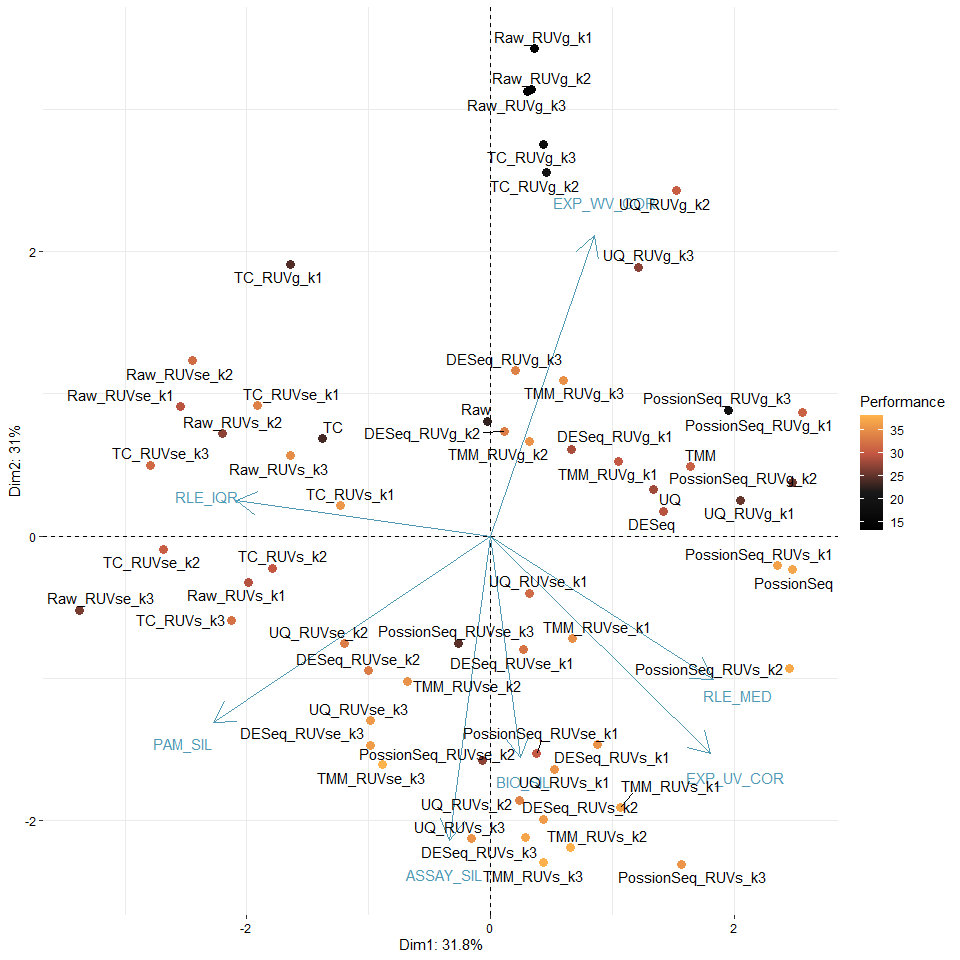
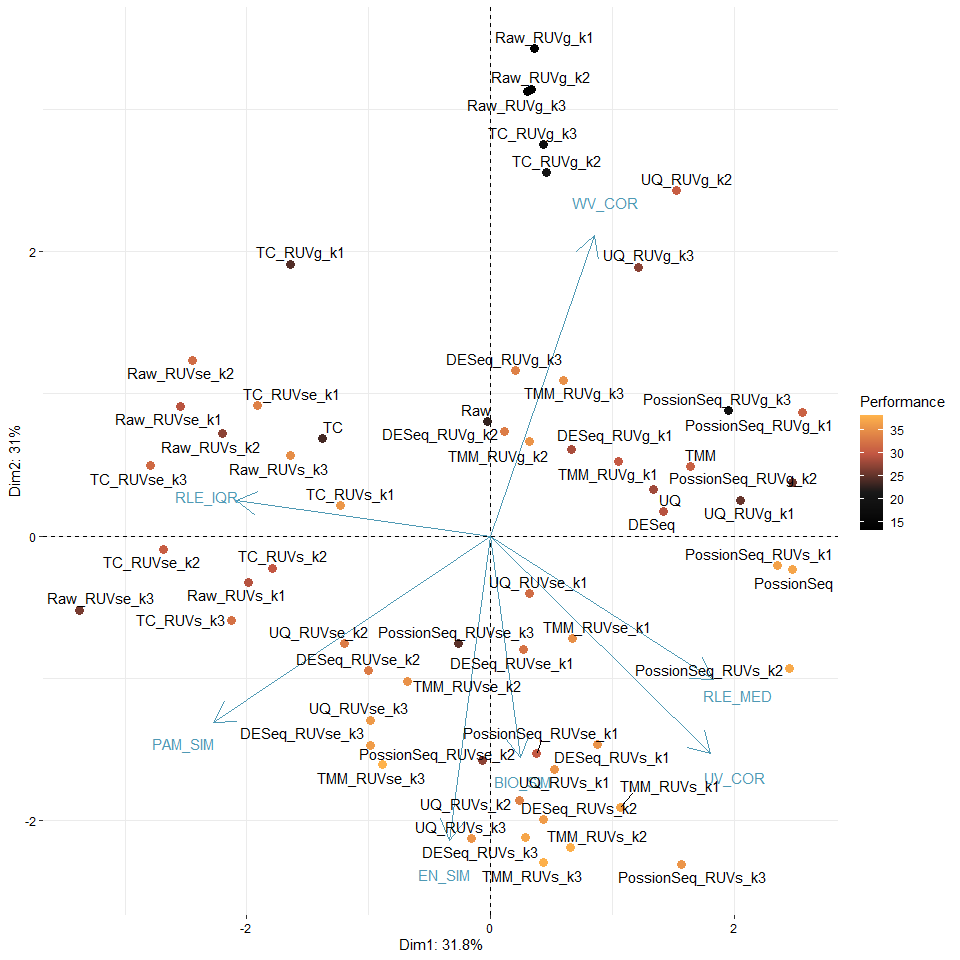
control ruv.k not exceed sample size; unify plot api; update README

diff --git a/README.md b/README.md
@@ -188,7 +188,8 @@ Normalization and assessment can be achieved by wrapper function `enONE`
 ``` r
 Enone <- enONE(Enone, 
                ruv.norm = TRUE, ruv.k = 3,
-               pam.krange = 2:6, pc.k = 3
+               eval.pam.k = 2:6, eval.pc.n = 3,
+               return.norm = FALSE,
                )
 #> Gene set selection for normalization and assessment...
 #> - The number of negative control genes for normalization: 1000 
@@ -200,15 +201,15 @@ Enone <- enONE(Enone,
 
 Selected gene sets are stored in `rowData`, including:
 
--   `NegControl`: Boolean value indicate whether this gene is a member
-    of the negative control gene sets for RUV, default the most 1000 not
-    enriched genes in spike_in are selected.
--   `NegEvaluation`: Boolean value indicate whether this gene is a
-    member of the negative evaluation gene set, default the most 500 not
-    variable genes in samples are selected.
--   `PosEvaluation`: Boolean value indicate whether this gene is a
-    member of the positive evaluation gene set, default the most 500
-    enriched genes in samples are selected.
+- `NegControl`: Boolean value indicate whether this gene is a member of
+  the negative control gene sets for RUV, default the most 1000 not
+  enriched genes in spike_in are selected.
+- `NegEvaluation`: Boolean value indicate whether this gene is a member
+  of the negative evaluation gene set, default the most 500 not variable
+  genes in samples are selected.
+- `PosEvaluation`: Boolean value indicate whether this gene is a member
+  of the positive evaluation gene set, default the most 500 enriched
+  genes in samples are selected.
 
 ``` r
 rowData(Enone)
@@ -298,20 +299,20 @@ order).
 
 ``` r
 head(getMetrics(Enone))
-#>                        BIO_SIL ASSAY_SIL BATCH_SIL   PAM_SIL      RLE_MED
+#>                        BIO_SIM    EN_SIM BATCH_SIM   PAM_SIM      RLE_MED
 #> TMM_RUVse_k3       0.004010675 0.3672915         0 0.7215727 0.0012331000
 #> TMM_RUVs_k3        0.264969797 0.3526664         0 0.6917263 0.0013922471
 #> TMM_RUVs_k2        0.273545725 0.3529028         0 0.6912465 0.0014106631
 #> PossionSeq_RUVs_k2 0.162922204 0.3557378         0 0.6791057 0.0001844717
 #> TMM_RUVs_k1        0.323222896 0.3572111         0 0.6832383 0.0017360384
 #> DESeq_RUVs_k3      0.329558547 0.3506919         0 0.6919255 0.0022146643
-#>                       RLE_IQR EXP_WV_COR EXP_UV_COR
-#> TMM_RUVse_k3       0.02174805  0.8464516  0.3908795
-#> TMM_RUVs_k3        0.02437620  0.6853092  0.1459999
-#> TMM_RUVs_k2        0.02708899  0.7287250  0.1508830
-#> PossionSeq_RUVs_k2 0.07336386  0.9182946  0.2784424
-#> TMM_RUVs_k1        0.03318628  0.8619031  0.2170877
-#> DESeq_RUVs_k3      0.02595740  0.7217122  0.1135383
+#>                       RLE_IQR    WV_COR    UV_COR
+#> TMM_RUVse_k3       0.02174805 0.8464516 0.3908795
+#> TMM_RUVs_k3        0.02437620 0.6853092 0.1459999
+#> TMM_RUVs_k2        0.02708899 0.7287250 0.1508830
+#> PossionSeq_RUVs_k2 0.07336386 0.9182946 0.2784424
+#> TMM_RUVs_k1        0.03318628 0.8619031 0.2170877
+#> DESeq_RUVs_k3      0.02595740 0.7217122 0.1135383
 ```
 
 Check the performance of normalizations (ranked by scores in decreasing
@@ -319,20 +320,20 @@ order). Higher score means better performance.
 
 ``` r
 head(getScore(Enone))
-#>                    BIO_SIL ASSAY_SIL BATCH_SIL PAM_SIL RLE_MED RLE_IQR
-#> TMM_RUVse_k3            29        54         1      48      47      45
-#> TMM_RUVs_k3             50        36         1      36      46      37
-#> TMM_RUVs_k2             52        37         1      35      45      31
-#> PossionSeq_RUVs_k2      43        43         1      17      59       7
-#> TMM_RUVs_k1             55        47         1      25      39      22
-#> DESeq_RUVs_k3           56        32         1      37      34      35
-#>                    EXP_WV_COR EXP_UV_COR    SCORE
-#> TMM_RUVse_k3               15         29 38.14286
-#> TMM_RUVs_k3                 3         58 38.00000
-#> TMM_RUVs_k2                 8         57 37.85714
-#> PossionSeq_RUVs_k2         43         50 37.42857
-#> TMM_RUVs_k1                19         53 37.14286
-#> DESeq_RUVs_k3               6         60 37.14286
+#>                    BIO_SIM EN_SIM BATCH_SIM PAM_SIM RLE_MED RLE_IQR WV_COR
+#> TMM_RUVse_k3            29     54         1      48      47      45     15
+#> TMM_RUVs_k3             50     36         1      36      46      37      3
+#> TMM_RUVs_k2             52     37         1      35      45      31      8
+#> PossionSeq_RUVs_k2      43     43         1      17      59       7     43
+#> TMM_RUVs_k1             55     47         1      25      39      22     19
+#> DESeq_RUVs_k3           56     32         1      37      34      35      6
+#>                    UV_COR    SCORE
+#> TMM_RUVse_k3           29 38.14286
+#> TMM_RUVs_k3            58 38.00000
+#> TMM_RUVs_k2            57 37.85714
+#> PossionSeq_RUVs_k2     50 37.42857
+#> TMM_RUVs_k1            53 37.14286
+#> DESeq_RUVs_k3          60 37.14286
 ```
 
 #### PCA biplot
@@ -342,7 +343,7 @@ If batch not provided, preclude `BATCH_SIL` column and `SCORE` column.
 ``` r
 enScore <- getScore(Enone)
 pca.eval <- prcomp(enScore[,-c(3, 9)], scale = TRUE)
-ggPCA_Biplot(pca.eval, score = enScore$SCORE)
+PCA_Biplot(pca.eval, score = enScore$SCORE)
 ```
 
 <img src="man/figures/README-unnamed-chunk-15-1.png" width="100%" />
@@ -351,7 +352,7 @@ You can turn on the interactive mode to further explore the performance
 of each method.
 
 ``` r
-ggPCA_Biplot(pca.eval, score = Enone@enone_score$SCORE, interactive = TRUE)
+PCA_Biplot(pca.eval, score = Enone@enone_score$SCORE, interactive = TRUE)
 ```
 
 ### Use suitable normalization
@@ -373,10 +374,10 @@ normalization.
 
 ``` r
 samples_name <- paste(Enone$condition, Enone$replicate, sep='.')
-p1 <- ggPCA(log1p(Counts(Enone, slot='sample', 'Raw')), 
+p1 <- PCAplot(log1p(Counts(Enone, slot='sample', 'Raw')), 
             color = Enone$condition,
             label = samples_name, vst.norm = FALSE) + ggtitle('Before normalization')
-p2 <- ggPCA(log1p(norm.data), 
+p2 <- PCAplot(log1p(norm.data), 
             color = Enone$condition,
             label = samples_name, vst.norm = FALSE) + ggtitle('After normalization')
 p1 + p2
@@ -410,16 +411,16 @@ Each enrichment table is a `data.frame` with a list of genes as rows,
 and associated information as columns (GeneID, logFC, p-values, etc.).
 The following columns are present in the table:
 
--   `GeneID`: ID of genes.
--   `logFC`: log2 fold-change between enrichment and input samples.
-    Positive values indicate that the gene is more highly enriched in
-    the enrichment group.
--   `logCPM`: log2 CPM (counts per million) of the average expression of
-    all samples.
--   `LR`: Likelihood ratio of the likelihood ratio test.
--   `PValue`: p-value from the likelihood ratio test.
--   `FDR`: False discovery rate of the p-value, default “BH” method is
-    applied.
+- `GeneID`: ID of genes.
+- `logFC`: log2 fold-change between enrichment and input samples.
+  Positive values indicate that the gene is more highly enriched in the
+  enrichment group.
+- `logCPM`: log2 CPM (counts per million) of the average expression of
+  all samples.
+- `LR`: Likelihood ratio of the likelihood ratio test.
+- `PValue`: p-value from the likelihood ratio test.
+- `FDR`: False discovery rate of the p-value, default “BH” method is
+  applied.
 
 ``` r
 head(res.sig.ls[[1]])
@@ -545,7 +546,7 @@ syn_df <- as.data.frame(syn_level) %>%
 # remove suffix of condition
 syn_df$condition <- gsub("\\..*", "", syn_df$condition)
 
-ggDotPlot(syn_df, x="condition", y="logFC", fill="condition") +
+DotPlot(syn_df, x="condition", y="logFC", fill="condition") +
   facet_wrap(~syn_id)
 #> Bin width defaults to 1/30 of the range of the data. Pick better value with `binwidth`.
 ```
